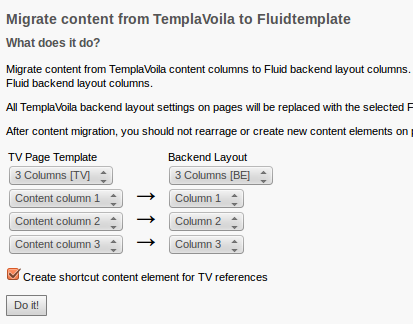
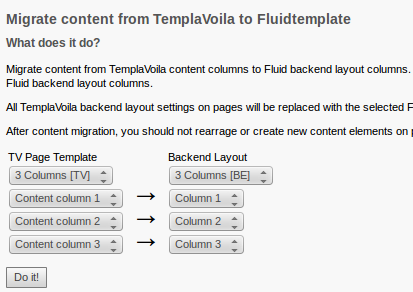
[TASK] Updated documentation - Closes: #62

diff --git a/README.md b/README.md
@@ -9,6 +9,7 @@ made with TemplaVoila to Fluidtemplate and Grid Elements
 ## Included modules
 
 * Module to mark all unreferenced elements as deleted
+* Module to convert references to "insert records" elements
 * Module to migrate the content of a flexible content element to a Grid Element
 * Module to migrate content from TemplaVoila columns to Fluidtemplate columns
 * Module to convert GridElements where the language is set to "all languages"
@@ -31,12 +32,13 @@ and TypoScript.
 1. Create Grid Elements for all Flexible Content Elements you wish to migrate
 2. Create backend layouts and Fluidtemplates for all TemplaVoila page templates you wish to migrate
 3. Delete all unreferenced elements
-4. Migrate all Flexible Content Elements to Grid Elements
-5. Migrate all TemplaVoila page templates to Fluidtemplate
-6. Delete TemplaVoila-Folder General Record Storage Page from root page
-7. Remove TemplaVoila
-8. Optionally convert GridElements with "all languages"
-9. Optionally fix the sorting of translated content elements
+4. Convert references to "insert records" elements
+5. Migrate all Flexible Content Elements to Grid Elements
+6. Migrate all TemplaVoila page templates to Fluidtemplate
+7. Delete TemplaVoila-Folder General Record Storage Page from root page
+8. Remove TemplaVoila
+9. Optionally convert GridElements with "all languages"
+10. Optionally fix the sorting of translated content elements
 
 ## Delete unreferenced elements
 
@@ -49,6 +51,16 @@ When migrating a TYPO3 website from TemplaVoila to Fluidtemplate, all unreferenc
 since they are not shown on the output page. You can use this module to perform this action.
 
 The action can safely be used, since it only flags all unreferenced elements as deleted.
+
+## Convert references to "insert records" elements
+
+This module searches recursive on all pages for TemplaVoila reference elements and converts them to "insert records"
+elements.
+
+This module replaces the setting "Create shortcut element for TV references" which was an optional setting in
+tv2fluidge < version 0.4.x.
+
+You should use this module before you start with migration of Flexible Content Elements and page content.
 
 ## Migrate FCE
 
@@ -122,9 +134,6 @@ to GridElement and sets the selected backend layout for the Grid Element. Then i
 `tx_templavoila_flex` to `pi_flexform`. If the selected Flexible Content Element has content columns, then all
 content elements will be mapped to the selected content columns of the target Grid Element.
 
-If you select to create shortcuts for content elements that are TemplaVoila references, then each matching content
-element will be insered as a shortcut in the given content column.
-
 ## Migrate content
 
 ![Content migration module](Documentation/Images/content-migration.png)
@@ -163,9 +172,6 @@ all content elements to column 0.
 The content migration module finds all pages with the selected TemplaVoila Page Template and remaps all content
 elements to the selected target content columns of the backend layout. After the content migration, the selected
 backend layout gets assigned to the "Backend Layout" select boxes.
-
-If you select to create shortcuts for content elements that are TemplaVoila references, then each matching content
-element will be insered as a shortcut in the given content column.
 
 ### Post-process steps
 
